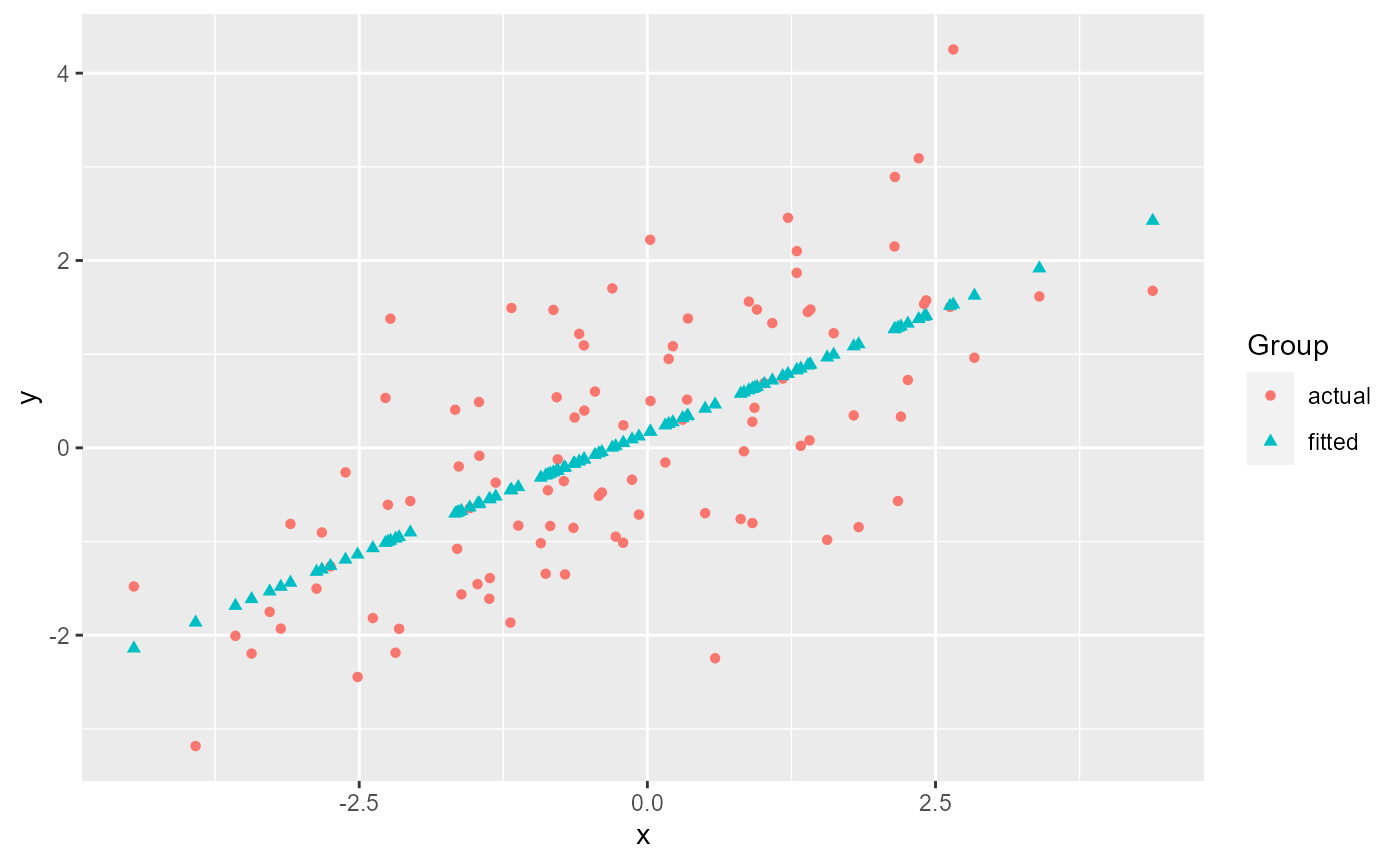
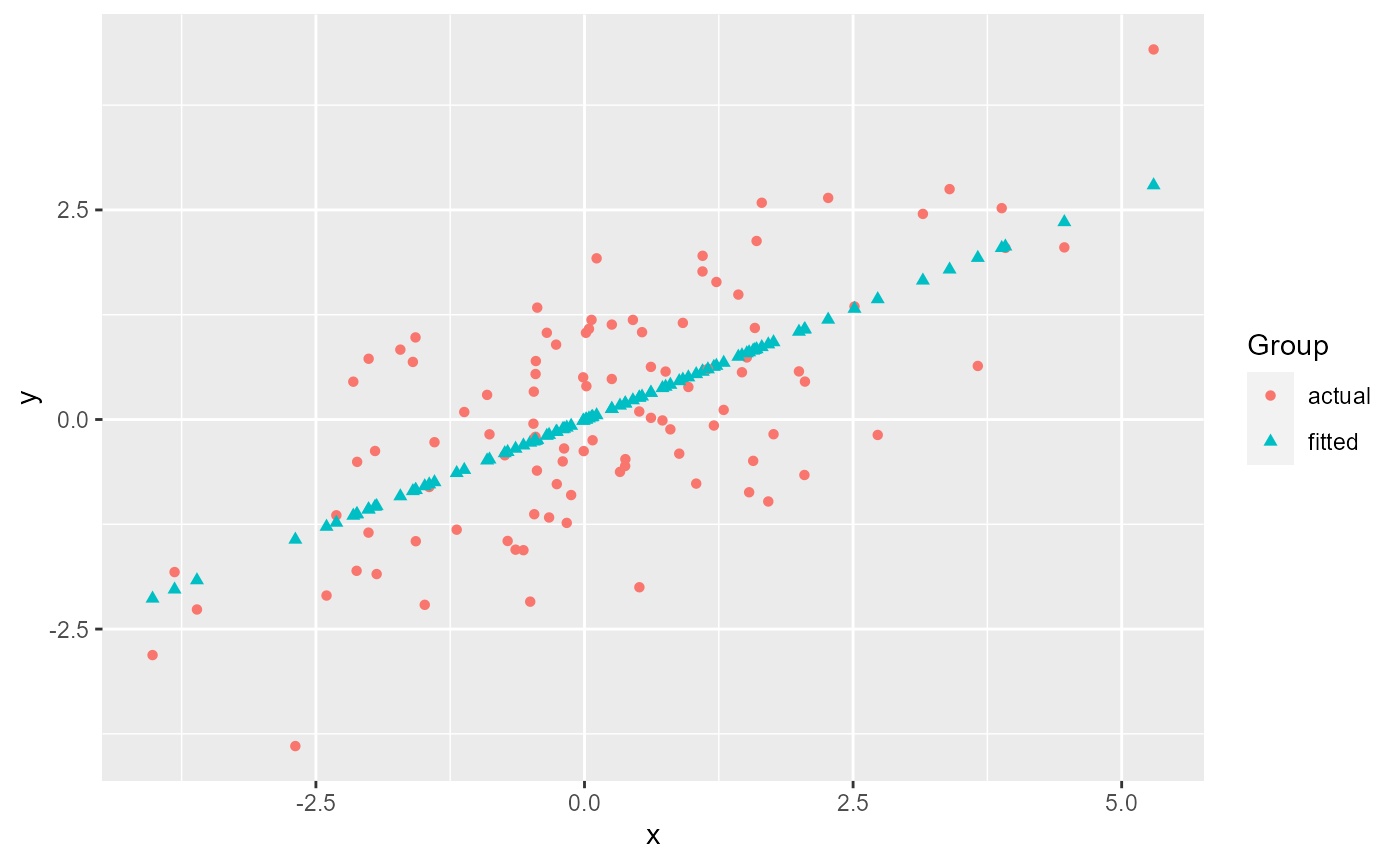
pkgdown site build

diff --git a/docs/articles/ggmatplot.html b/docs/articles/ggmatplot.html
@@ -101,7 +101,7 @@
 <span class="va">x</span> <span class="op">&lt;-</span> <span class="fu"><a href="https://rdrr.io/r/base/c.html">c</a></span><span class="op">(</span><span class="fu"><a href="https://rdrr.io/r/stats/Normal.html">rnorm</a></span><span class="op">(</span><span class="fl">100</span>, sd <span class="op">=</span> <span class="fl">2</span><span class="op">)</span><span class="op">)</span>
 
 <span class="fu"><a href="https://rdrr.io/r/utils/head.html">head</a></span><span class="op">(</span><span class="va">x</span><span class="op">)</span>
-<span class="co">#&gt; [1] -2.2290257 -0.3041097 -3.2765551  2.1441503  2.4007134  0.5877159</span>
+<span class="co">#&gt; [1]  3.6609166  3.1497473 -1.7140936  1.6499013 -0.7153263 -0.5051586</span>
 
 <span class="co"># matrix z</span>
 <span class="va">y</span> <span class="op">&lt;-</span> <span class="va">x</span> <span class="op">*</span> <span class="fl">0.5</span> <span class="op">+</span> <span class="fu"><a href="https://rdrr.io/r/stats/Normal.html">rnorm</a></span><span class="op">(</span><span class="fl">100</span>, sd <span class="op">=</span> <span class="fl">1</span><span class="op">)</span>
@@ -110,13 +110,13 @@
            fitted <span class="op">=</span> <span class="va">fit.y</span><span class="op">)</span>
 
 <span class="fu"><a href="https://rdrr.io/r/utils/head.html">head</a></span><span class="op">(</span><span class="va">z</span><span class="op">)</span>
-<span class="co">#&gt;      actual       fitted</span>
-<span class="co">#&gt; 1  1.378490 -0.991802534</span>
-<span class="co">#&gt; 2  1.702417  0.002407653</span>
-<span class="co">#&gt; 3 -1.750819 -1.532846659</span>
-<span class="co">#&gt; 4  2.149800  1.266922676</span>
-<span class="co">#&gt; 5  1.535616  1.399436324</span>
-<span class="co">#&gt; 6 -2.246216  0.463031464</span></code></pre></div>
+<span class="co">#&gt;       actual     fitted</span>
+<span class="co">#&gt; 1  0.6388558  1.9284176</span>
+<span class="co">#&gt; 2  2.4528632  1.6579399</span>
+<span class="co">#&gt; 3  0.8334792 -0.9156900</span>
+<span class="co">#&gt; 4  2.5855909  0.8643184</span>
+<span class="co">#&gt; 5 -1.4489687 -0.3872070</span>
+<span class="co">#&gt; 6 -2.1728906 -0.2759998</span></code></pre></div>
 <p><code>ggmatplot</code> plots vector <code>x</code> against each column of matrix <code>z</code> using the default <code>plot_type = "point"</code>. This will be represented on the resulting plot as two groups, identified using different shapes and colors.</p>
 <div class="sourceCode" id="cb2"><pre class="downlit sourceCode r">
 <code class="sourceCode R"><span class="kw"><a href="https://rdrr.io/r/base/library.html">library</a></span><span class="op">(</span><span class="va"><a href="https://github.com/xuan-liang/ggmatplot">ggmatplot</a></span><span class="op">)</span>

diff --git a/docs/authors.html b/docs/authors.html
@@ -6,7 +6,7 @@
 <meta http-equiv="X-UA-Compatible" content="IE=edge">
 <meta name="viewport" content="width=device-width, initial-scale=1.0">
 
-<title>Authors • ggmatplot</title>
+<title>Citation and Authors • ggmatplot</title>
 
 
 <!-- jquery -->
@@ -39,7 +39,7 @@
 
 
 
-<meta property="og:title" content="Authors" />
+<meta property="og:title" content="Citation and Authors" />
 
 
 
@@ -58,7 +58,7 @@
   </head>
 
   <body data-spy="scroll" data-target="#toc">
-    <div class="container template-authors">
+    <div class="container template-citation-authors">
       <header>
       <div class="navbar navbar-default navbar-fixed-top" role="navigation">
   <div class="container">
@@ -118,6 +118,20 @@
 
 <div class="row">
   <div class="contents col-md-9">
+    <div class="page-header">
+      <h1>Citation</h1>
+      <small class="dont-index">Source: <a href='https://github.com/xuan-liang/ggmatplot/blob/master/inst/CITATION'><code>inst/CITATION</code></a></small>
+    </div>
+
+    <p>Xuan Liang, Francis Hui, Emi Tanaka and Dilinie Seimon (2021).
+  ggmatplot: A quick and easy way of plotting the columns of two matrices or data frames against each other using ggplot2.</p>
+    <pre>@Manual{,
+  title = {{ggmatplot}: A quick and easy way of plotting the columns of two matrices or data frames against each other using ggplot2.},
+  author = {Xuan Liang and Francis Hui and Emi Tanaka and Dilinie Seimon},
+  year = {2021},
+  url = {https://github.com/xuan-liang/ggmatplot},
+}</pre>
+
     <div class="page-header">
       <h1>Authors</h1>
     </div>

diff --git a/docs/index.html b/docs/index.html
@@ -300,6 +300,12 @@
 <li><small><a href="https://www.r-project.org/Licenses/GPL-3">GPL-3</a></small></li>
 </ul>
 </div>
+<div class="citation">
+<h2>Citation</h2>
+<ul class="list-unstyled">
+<li><a href="authors.html">Citing ggmatplot</a></li>
+</ul>
+</div>
 <div class="developers">
 <h2>Developers</h2>
 <ul class="list-unstyled">
